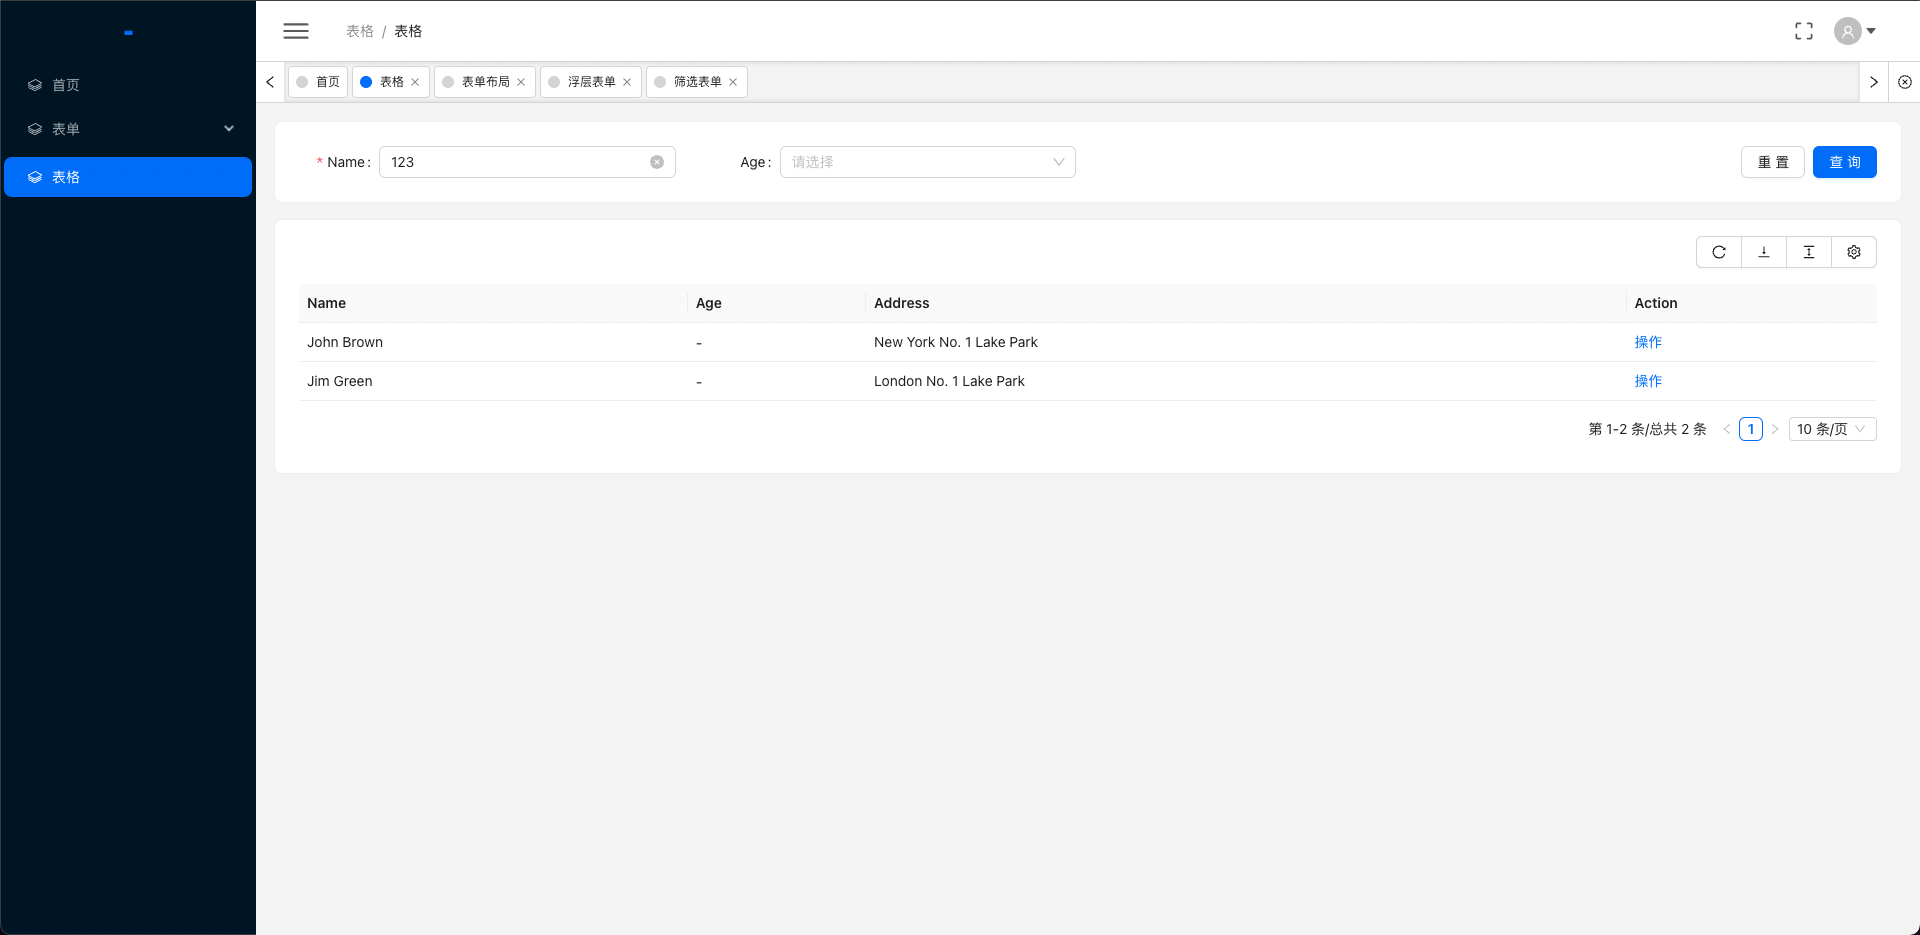
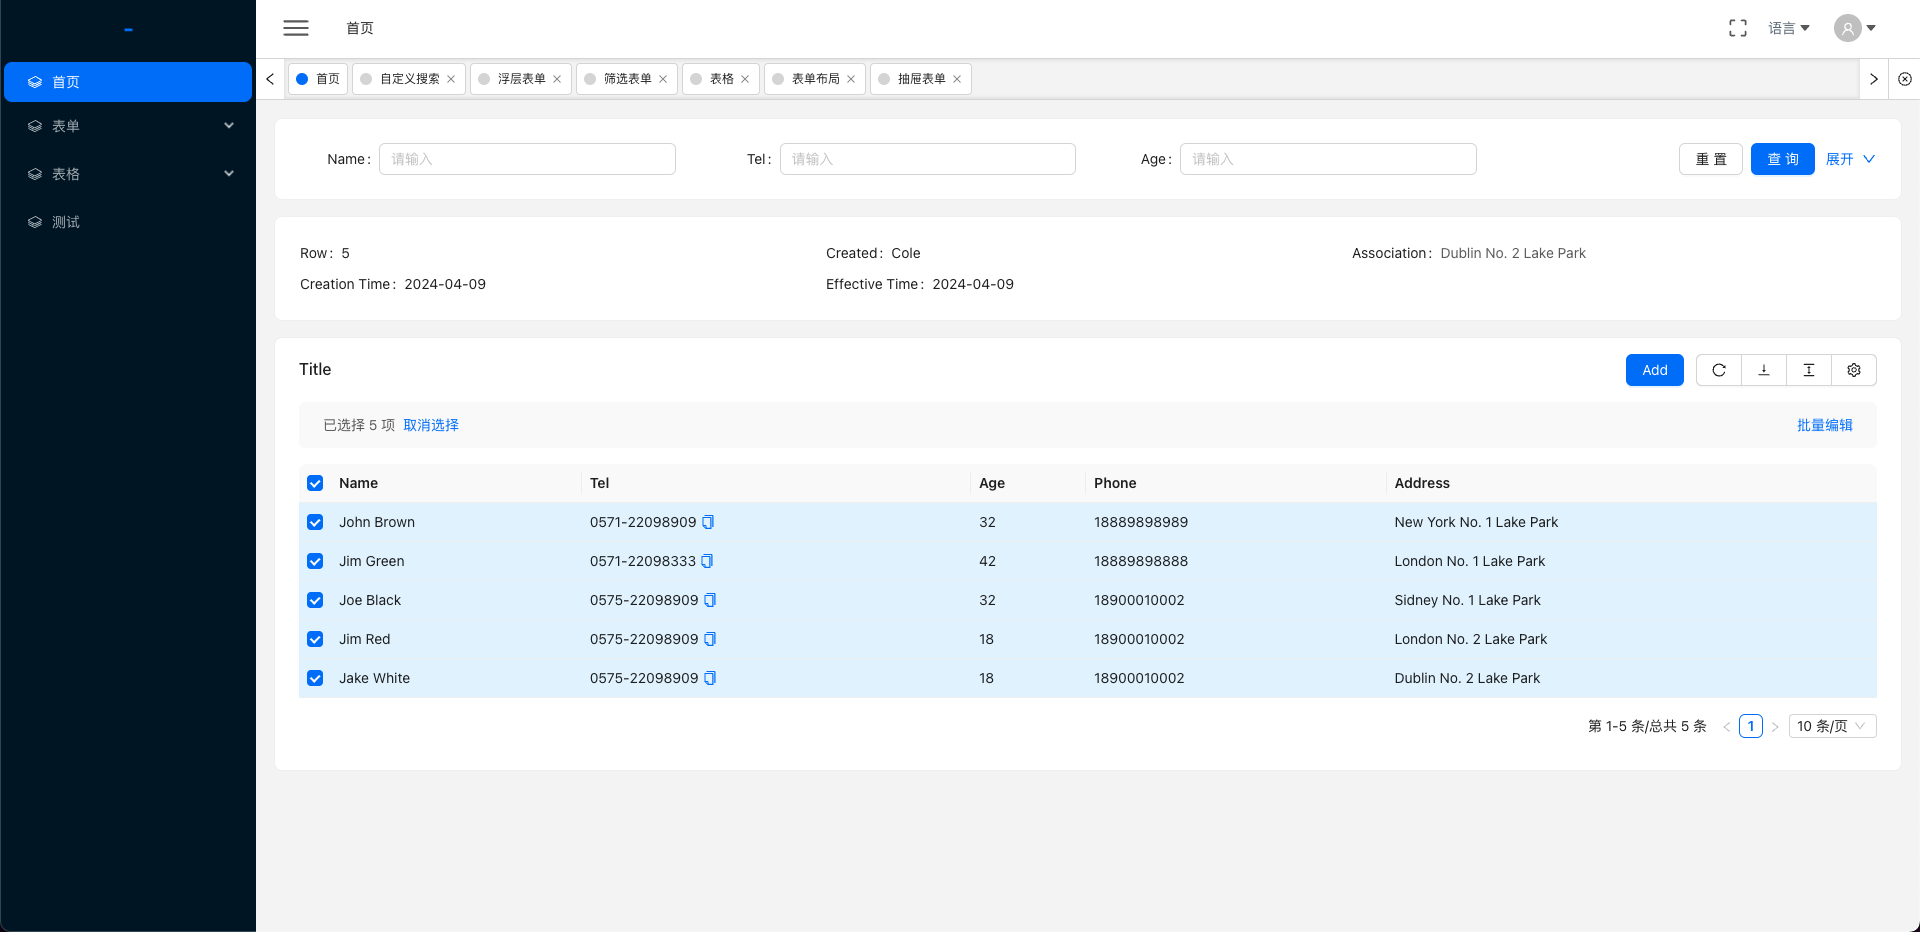
feat: 完整示例

diff --git a/src/views/Home.jsx b/src/views/Home.jsx
@@ -1,5 +1,7 @@
 import { computed, defineComponent, unref } from 'vue'
-import { Table } from '@/components/table'
+import { Action, Table } from '@/components/table'
+import { ModalForm, Number, Text } from '@/components/form'
+import { Button, Card, Descriptions } from 'ant-design-vue'
 
 export default defineComponent({
     name: 'HomeIndex',
@@ -9,8 +11,13 @@ export default defineComponent({
                 {
                     title: 'Name',
                     search: true,
-                    copyable: true,
                     dataIndex: 'name'
+                },
+                {
+                    title: 'Tel',
+                    search: true,
+                    copyable: true,
+                    dataIndex: 'tel'
                 },
                 {
                     title: 'Age',
@@ -18,22 +25,26 @@ export default defineComponent({
                     dataIndex: 'age'
                 },
                 {
-                    title: 'AAAAAA',
+                    title: 'Phone',
                     search: true,
-                    dataIndex: 'aaa'
+                    dataIndex: 'phone'
                 },
                 {
-                    title: 'BBBBBB',
+                    title: 'Address',
                     search: true,
-                    dataIndex: 'bbb'
-                },
-                {
-                    title: 'CCCCCC',
-                    search: true,
-                    dataIndex: 'ccc'
-                },
+                    dataIndex: 'address'
+                }
             ]
         })
+
+        function onAlertClick (rows, keys) {
+            console.log(rows, keys)
+        }
+
+        function onFinish (values) {
+            console.log(values)
+            return Promise.resolve(true)
+        }
 
         function request (params, paginate, filter, sort) {
             return new Promise((resolve) => {
@@ -41,12 +52,42 @@ export default defineComponent({
                     {
                         key: '1',
                         name: 'John Brown',
-                        age: 32
+                        age: 32,
+                        tel: '0571-22098909',
+                        phone: 18889898989,
+                        address: 'New York No. 1 Lake Park',
                     },
                     {
                         key: '2',
                         name: 'Jim Green',
-                        age: 42
+                        tel: '0571-22098333',
+                        phone: 18889898888,
+                        age: 42,
+                        address: 'London No. 1 Lake Park',
+                    },
+                    {
+                        key: '3',
+                        name: 'Joe Black',
+                        age: 32,
+                        tel: '0575-22098909',
+                        phone: 18900010002,
+                        address: 'Sidney No. 1 Lake Park',
+                    },
+                    {
+                        key: '4',
+                        name: 'Jim Red',
+                        age: 18,
+                        tel: '0575-22098909',
+                        phone: 18900010002,
+                        address: 'London No. 2 Lake Park',
+                    },
+                    {
+                        key: '5',
+                        name: 'Jake White',
+                        age: 18,
+                        tel: '0575-22098909',
+                        phone: 18900010002,
+                        address: 'Dublin No. 2 Lake Park',
                     }
                 ]
 
@@ -60,13 +101,60 @@ export default defineComponent({
             const tableProps = {
                 columns: unref(columns),
                 request: request,
-                search: {
-                    showCollapse: true
-                }
+                search: { showCollapse: true },
+                rowSelection: true
+            }
+
+            const tableSlots = {
+                title: () => 'Title',
+                actions: () => (
+                    <ModalForm
+                        title={'编辑'}
+                        grid={true}
+                        width={512}
+                        onFinish={onFinish}
+                        v-slots={{
+                            trigger: () => <Button type={'primary'}>Add</Button>
+                        }}
+                    >
+                        <Text
+                            label={'文本'}
+                            name={'text'}
+                            colProps={{ span: 12 }}
+                        />
+                        <Number
+                            label={'数字'}
+                            name={'number'}
+                            colProps={{ span: 12 }}
+                        />
+                    </ModalForm>
+                ),
+                alertOptions: ({ rows, keys }) => (
+                    <Action onClick={onAlertClick.bind(null, rows, keys)}>
+                        批量编辑
+                    </Action>
+                ),
+                extra: ({ pageData }) => (
+                    <Card bodyStyle={{ padding: '24px 24px 17px' }}>
+                        <Descriptions size={'small'} column={3}>
+                            <Descriptions.Item label={'Row'}>{pageData.length}</Descriptions.Item>
+                            <Descriptions.Item label={'Created'}>Cole</Descriptions.Item>
+                            <Descriptions.Item label={'Association'}>
+                                <a>Dublin No. 2 Lake Park</a>
+                            </Descriptions.Item>
+                            <Descriptions.Item label={'Creation Time'}>
+                                2024-04-09
+                            </Descriptions.Item>
+                            <Descriptions.Item label={'Effective Time'}>
+                                2024-04-09
+                            </Descriptions.Item>
+                        </Descriptions>
+                    </Card>
+                )
             }
 
             return (
-                <Table {...tableProps}/>
+                <Table {...tableProps} v-slots={tableSlots}/>
             )
         }
     }

diff --git a/src/views/table/CustomSearch.jsx b/src/views/table/CustomSearch.jsx
@@ -1,5 +1,4 @@
-import { defineComponent, Fragment, ref, unref } from 'vue'
-import { Button, Card, Descriptions } from 'ant-design-vue'
+import { defineComponent, ref, unref } from 'vue'
 import { CustomFields } from '@/components/base-field'
 import { HocField, Radio, Select } from '@/components/form'
 import { Action, ActionGroup, BaseSearch, Table } from '@/components/table'
@@ -113,36 +112,6 @@ export default defineComponent({
                                         name={'test'}
                                     />
                                 </BaseSearch>
-                            ),
-                            actions: () => (
-                                <Fragment>
-                                    <Button>123</Button>
-                                    <Button>321</Button>
-                                </Fragment>
-                            ),
-                            title: () => 'Title',
-                            alertOptions: () => (
-                                <Fragment>
-                                    <Action>批量下载</Action>
-                                    <Action>批量编辑</Action>
-                                </Fragment>
-                            ),
-                            extra: () => (
-                                <Card bodyStyle={{ padding: '24px 24px 17px' }}>
-                                    <Descriptions size={'small'} column={3}>
-                                        <Descriptions.Item label={'Row'}>10</Descriptions.Item>
-                                        <Descriptions.Item label={'Created'}>Cole</Descriptions.Item>
-                                        <Descriptions.Item label={'Association'}>
-                                            <a>421421</a>
-                                        </Descriptions.Item>
-                                        <Descriptions.Item label={'Creation Time'}>
-                                            2017-01-10
-                                        </Descriptions.Item>
-                                        <Descriptions.Item label={'Effective Time'}>
-                                            2017-10-10
-                                        </Descriptions.Item>
-                                    </Descriptions>
-                                </Card>
                             )
                         }}/>
                     </CustomFields>
